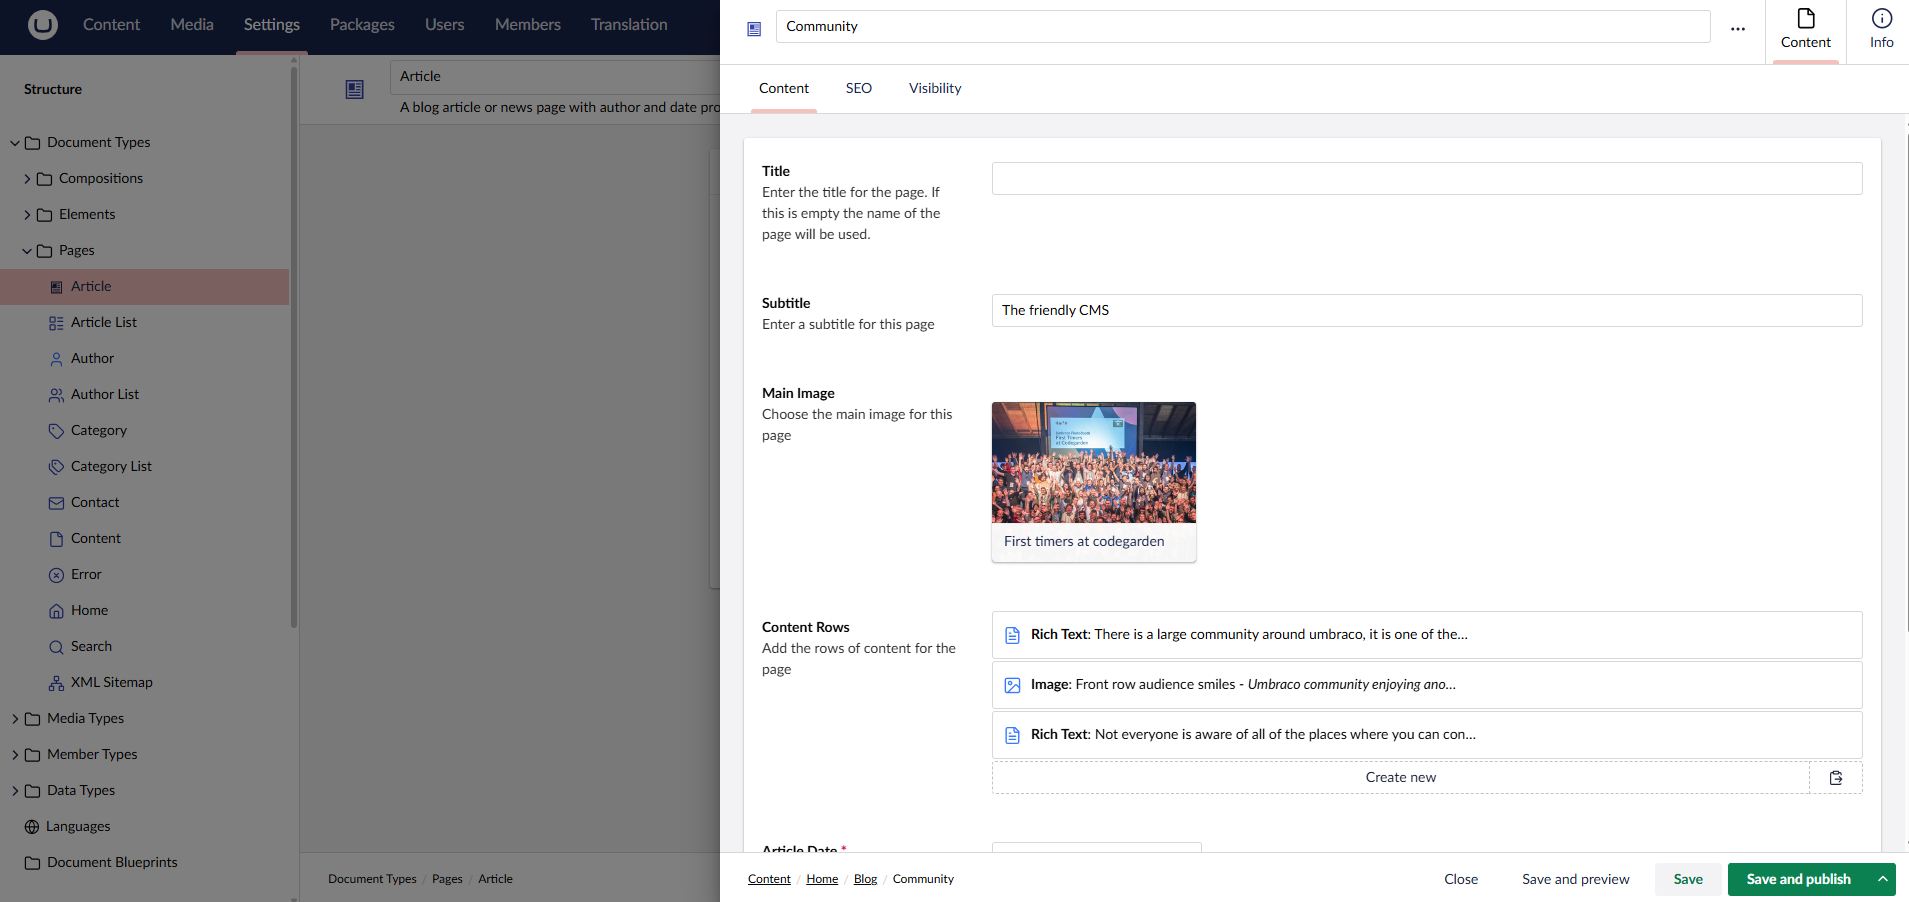
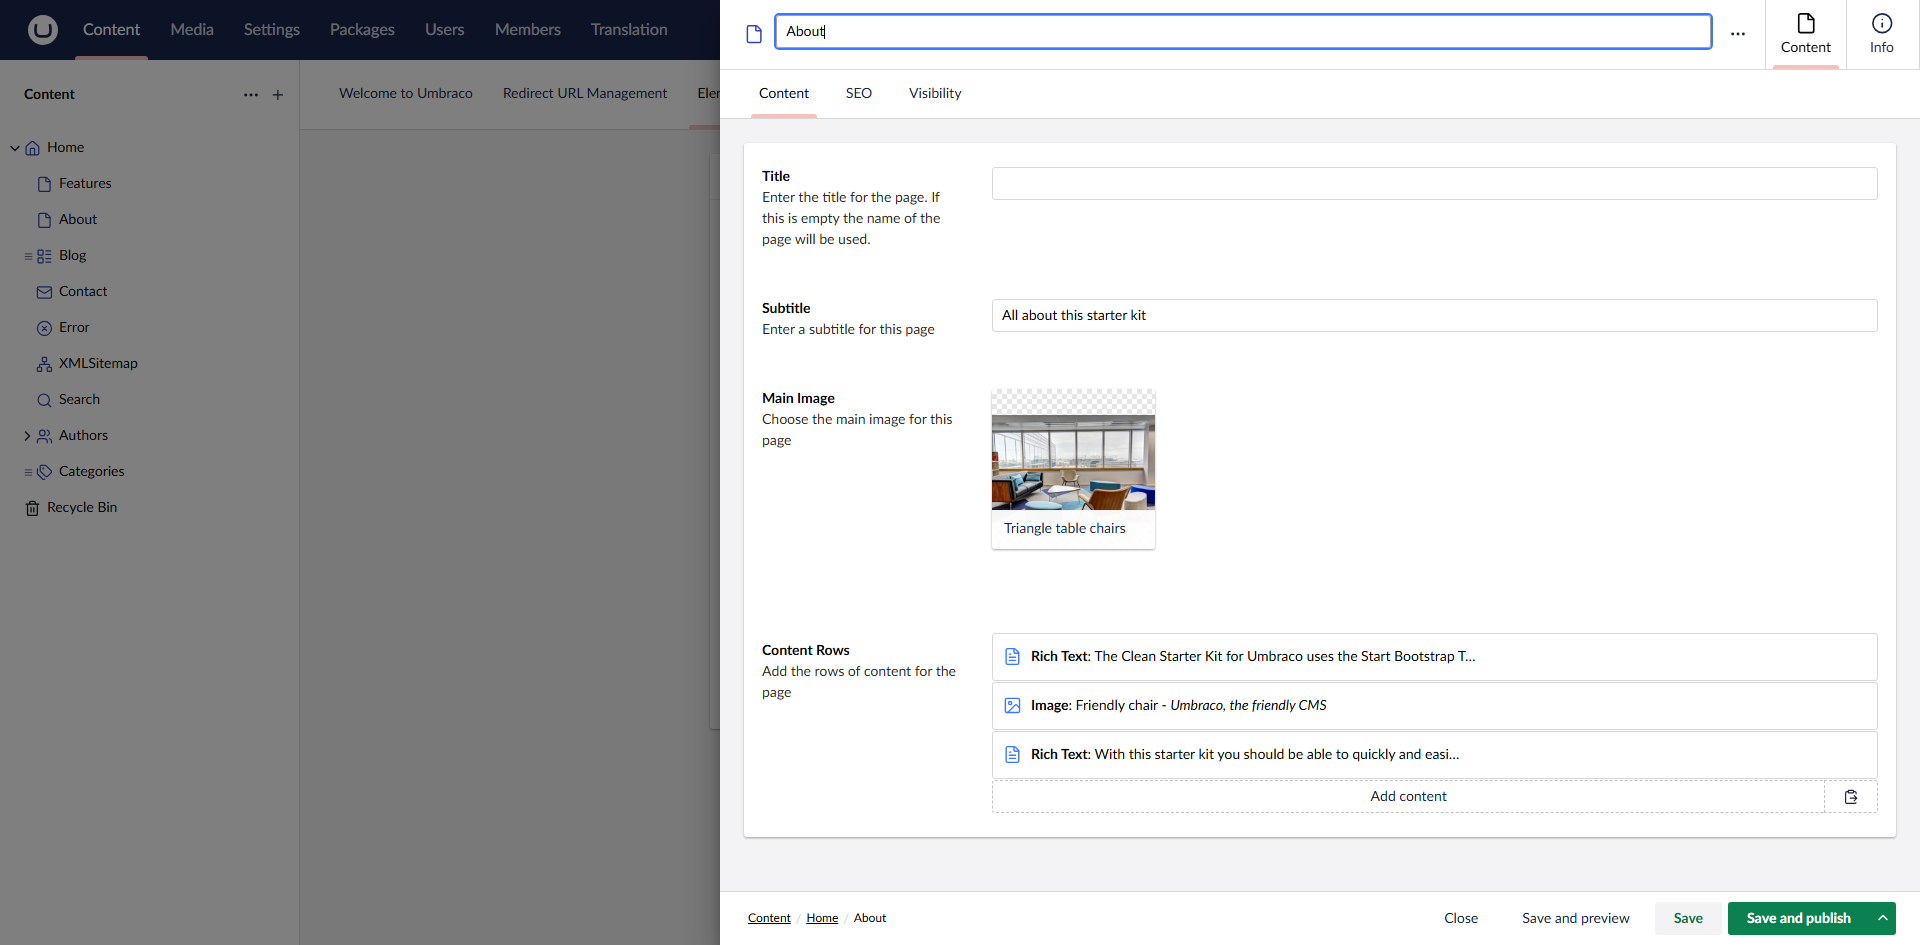
Improve Element Finder documentation and release Umbraco 17 stable
This update provides more comprehensive documentation for the Element Finder package, making it easier for users to understand its features and how to install it. Key improvements include:

- Clear guidance on installing the correct package version for Umbraco 13 and Umbraco 17.
- Expanded details on what the package scans and its known limitations.
- Enhanced backoffice and content usage descriptions with new screenshots.
- Updated the Umbraco Marketplace listing with a video and improved image captions.

Additionally, the Umbraco 17 package version has been moved from beta to a stable release.

diff --git a/src/Pixelbuilders.Umbraco.ElementFinder/NUGET.md b/src/Pixelbuilders.Umbraco.ElementFinder/NUGET.md
@@ -1,25 +1,78 @@
 # Element Finder
 
-**Element Finder** is an Umbraco package that adds a dashboard to the CMS, allowing users to search for elements or blocks being used within the CMS.
+**Element Finder** is an Umbraco package that helps editors find where document types, element types, and blocks are used within the CMS.
 
-No configuration is required for the package. Once installed, simply log into the CMS, and you will be presented with a new tab within the settings area when selecting a document or element.
+No configuration is required for the package. Once installed, log into the CMS and use the Element Finder dashboard in the Content section, or open a Document Type in Settings and select the Usage tab.
 
-[![Screenshot 1](https://raw.githubusercontent.com/pixelbuilders/PixelBuilders.Umbraco.ElementFinder/refs/heads/main/images/image-1.png)](https://raw.githubusercontent.com/pixelbuilders/PixelBuilders.Umbraco.ElementFinder/refs/heads/main/images/image-1.png)
+[![Content Section Dashboard](https://raw.githubusercontent.com/pixelbuilders/PixelBuilders.Umbraco.ElementFinder/refs/heads/main/images/image-1.png)](https://raw.githubusercontent.com/pixelbuilders/PixelBuilders.Umbraco.ElementFinder/refs/heads/main/images/image-1.png)
 
-The package also allows you to quickly view and edit the content of the pages.
+[![Document Type Usage Tab](https://raw.githubusercontent.com/pixelbuilders/PixelBuilders.Umbraco.ElementFinder/refs/heads/main/images/image-3.png)](https://raw.githubusercontent.com/pixelbuilders/PixelBuilders.Umbraco.ElementFinder/refs/heads/main/images/image-3.png)
 
-[![Screenshot 3](https://raw.githubusercontent.com/pixelbuilders/PixelBuilders.Umbraco.ElementFinder/refs/heads/main/images/image-2.png)](https://raw.githubusercontent.com/pixelbuilders/PixelBuilders.Umbraco.ElementFinder/refs/heads/main/images/image-2.png)
+The package also allows editors to quickly view and edit the matching content items.
+
+[![Edit Sidebar](https://raw.githubusercontent.com/pixelbuilders/PixelBuilders.Umbraco.ElementFinder/refs/heads/main/images/image-2.png)](https://raw.githubusercontent.com/pixelbuilders/PixelBuilders.Umbraco.ElementFinder/refs/heads/main/images/image-2.png)
 
 ## Requirements
 
-Umbraco 17.0+
+Element Finder supports Umbraco 13 and 17 through different package versions.
+
+## Package Version Guide
+
+Install the package version that matches your Umbraco major version:
+
+| Umbraco version | Element Finder package version |
+| --- | --- |
+| Umbraco 17 | `17.0.0` |
+| Umbraco 13 | `1.0.1` |
 
 ## Installation
 
 ### Visual Studio
 
-Simply search for the `Pixelbuilders.Umbraco.ElementFinder` NuGet package and add it to your project.
+1. Open `Manage NuGet Packages` for your Umbraco project.
+2. Search for `Pixelbuilders.Umbraco.ElementFinder`.
+3. Install the package version that matches your Umbraco version.
 
 ### CLI
 
-`dotnet add package Pixelbuilders.Umbraco.ElementFinder`
+For Umbraco 17:
+
+```bash
+dotnet add package Pixelbuilders.Umbraco.ElementFinder --version 17.0.0
+```
+
+For Umbraco 13:
+
+```bash
+dotnet add package Pixelbuilders.Umbraco.ElementFinder --version 1.0.1
+```
+
+## What It Scans
+
+Element Finder scans content nodes for:
+
+- Direct usage of a selected Document Type.
+- Block editor JSON containing matching element type keys in `contentData` or `settingsData`.
+- Document Types or Element Types that use the selected type through composition.
+
+## Backoffice Views
+
+- The Content section dashboard lets editors pick a Document Type or Element Type and search for usage across the site.
+- The Settings workspace Usage tab appears when editing a Document Type and shows where that type is used.
+
+## Known Limitations
+
+- Usage checks currently scan content in batches and inspect JSON property values in-process, so very large content trees may take longer to search.
+- The scanner is focused on content and block editor data. It does not currently report usage from templates, code, dictionary items, media, member data, or custom storage.
+- Invalid or unsupported JSON property values are skipped.
+- Results depend on published URL resolution, so unpublished or unusual routing scenarios may affect the displayed URL.
+
+## Development Notes
+
+The package is a Razor Class Library and serves its backoffice assets through RCL static web assets. The client app lives in `src/Pixelbuilders.Umbraco.ElementFinder/Client`.
+
+If you are building the package from source, use the Node version that matches the target Umbraco major version:
+
+- Umbraco 17 package line: `^18.18.0 || ^20.9.0 || >=22.10.0`
+
+Normal package builds run `npm ci` and `npm run build` for the client.

diff --git a/README.md b/README.md
@@ -1,28 +1,51 @@
 # Element Finder
 
-**Element Finder** is an Umbraco package that adds a dashboard to the CMS, allowing users to search for elements or blocks being used within the CMS.
+**Element Finder** is an Umbraco package that helps editors find where document types, element types, and blocks are used within the CMS.
 
 No configuration is required for the package. Once installed, log into the CMS and use the Element Finder dashboard in the Content section, or open a Document Type in Settings and select the Usage tab.
 
-[![Screenshot 1](images/image-1.png)](images/image-1.png)
+[![Content Section Dashboard](https://raw.githubusercontent.com/pixelbuilders/PixelBuilders.Umbraco.ElementFinder/refs/heads/main/images/image-1.png)](https://raw.githubusercontent.com/pixelbuilders/PixelBuilders.Umbraco.ElementFinder/refs/heads/main/images/image-1.png)
 
-The package also allows you to quickly view and edit the content of the pages.
+[![Document Type Usage Tab](https://raw.githubusercontent.com/pixelbuilders/PixelBuilders.Umbraco.ElementFinder/refs/heads/main/images/image-3.png)](https://raw.githubusercontent.com/pixelbuilders/PixelBuilders.Umbraco.ElementFinder/refs/heads/main/images/image-3.png)
 
-[![Screenshot 3](images/image-2.png)](images/image-2.png)
+The package also allows editors to quickly view and edit the matching content items.
+
+[![Edit Sidebar](https://raw.githubusercontent.com/pixelbuilders/PixelBuilders.Umbraco.ElementFinder/refs/heads/main/images/image-2.png)](https://raw.githubusercontent.com/pixelbuilders/PixelBuilders.Umbraco.ElementFinder/refs/heads/main/images/image-2.png)
 
 ## Requirements
 
-Umbraco 17.0+
+Element Finder supports Umbraco 13 and 17 through different package versions.
+
+## Package Version Guide
+
+Install the package version that matches your Umbraco major version:
+
+| Umbraco version | Element Finder package version |
+| --- | --- |
+| Umbraco 17 | `17.0.0` |
+| Umbraco 13 | `1.0.1` |
 
 ## Installation
 
 ### Visual Studio
 
-Simply search for the `Pixelbuilders.Umbraco.ElementFinder` NuGet package and add it to your project.
+1. Open `Manage NuGet Packages` for your Umbraco project.
+2. Search for `Pixelbuilders.Umbraco.ElementFinder`.
+3. Install the package version that matches your Umbraco version.
 
 ### CLI
 
-`dotnet add package Pixelbuilders.Umbraco.ElementFinder`
+For Umbraco 17:
+
+```bash
+dotnet add package Pixelbuilders.Umbraco.ElementFinder --version 17.0.0
+```
+
+For Umbraco 13:
+
+```bash
+dotnet add package Pixelbuilders.Umbraco.ElementFinder --version 1.0.1
+```
 
 ## What It Scans
 
@@ -48,6 +71,8 @@ Element Finder scans content nodes for:
 
 The package is a Razor Class Library and serves its backoffice assets through RCL static web assets. The client app lives in `src/Pixelbuilders.Umbraco.ElementFinder/Client`.
 
-Normal package builds run `npm ci` and `npm run build` for the client. To skip the client build when assets are already up to date, pass:
+If you are building the package from source, use the Node version that matches the target Umbraco major version:
 
-`/p:SkipElementFinderClientBuild=true`
+- Umbraco 17 package line: `^18.18.0 || ^20.9.0 || >=22.10.0`
+
+Normal package builds run `npm ci` and `npm run build` for the client.
